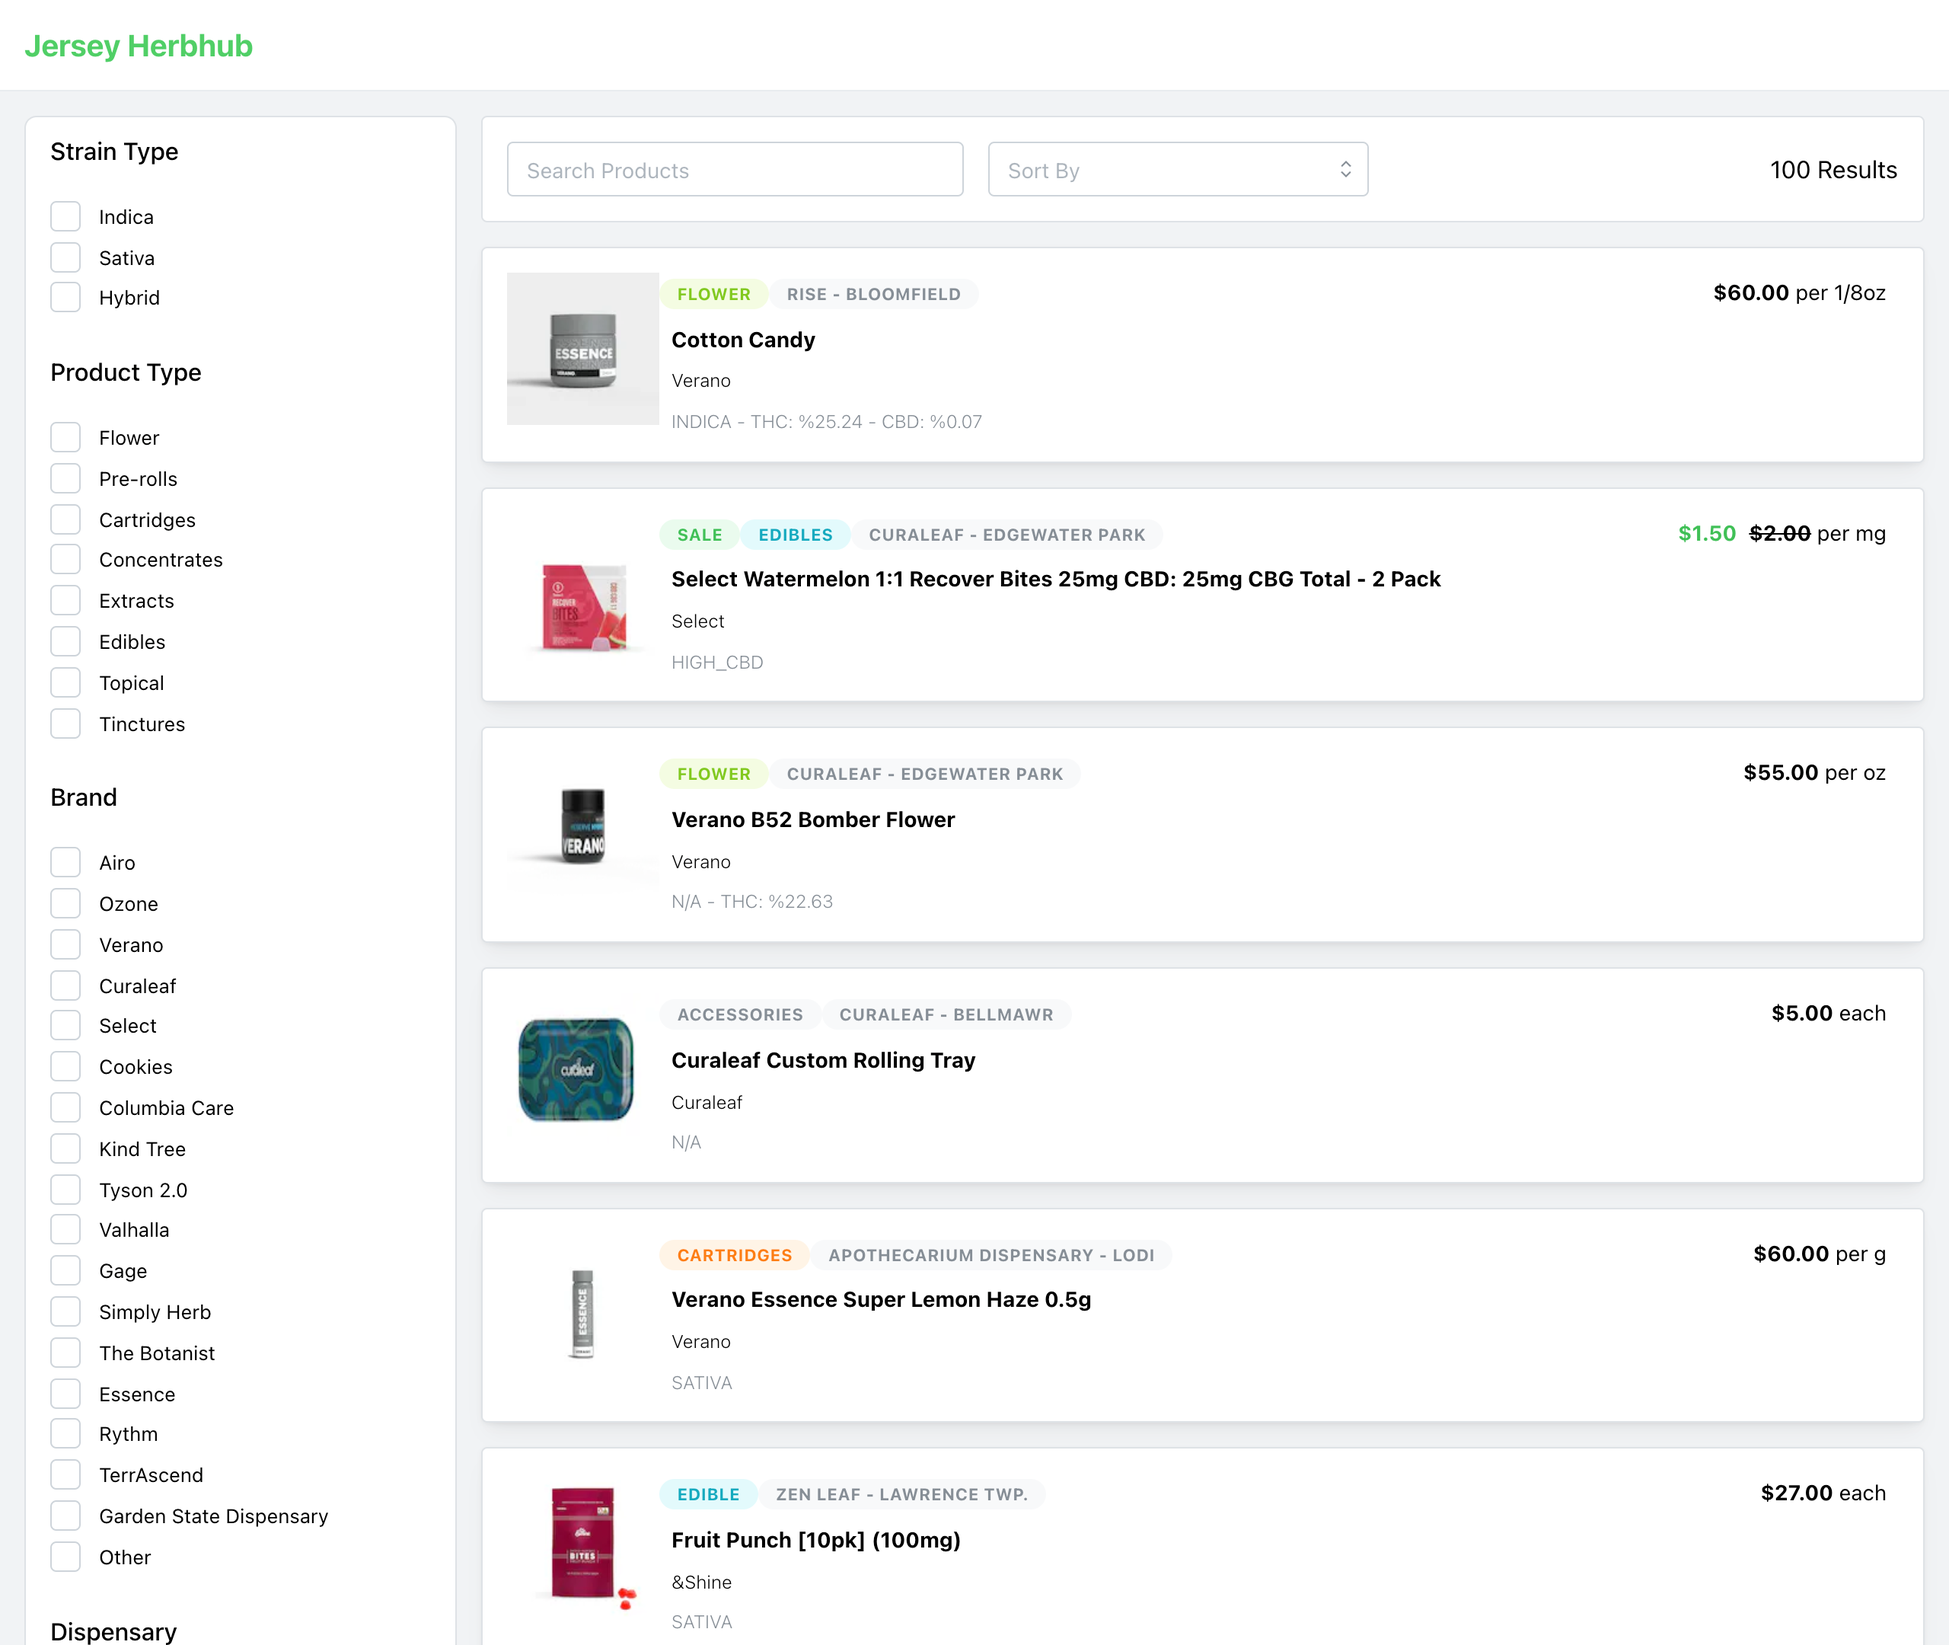
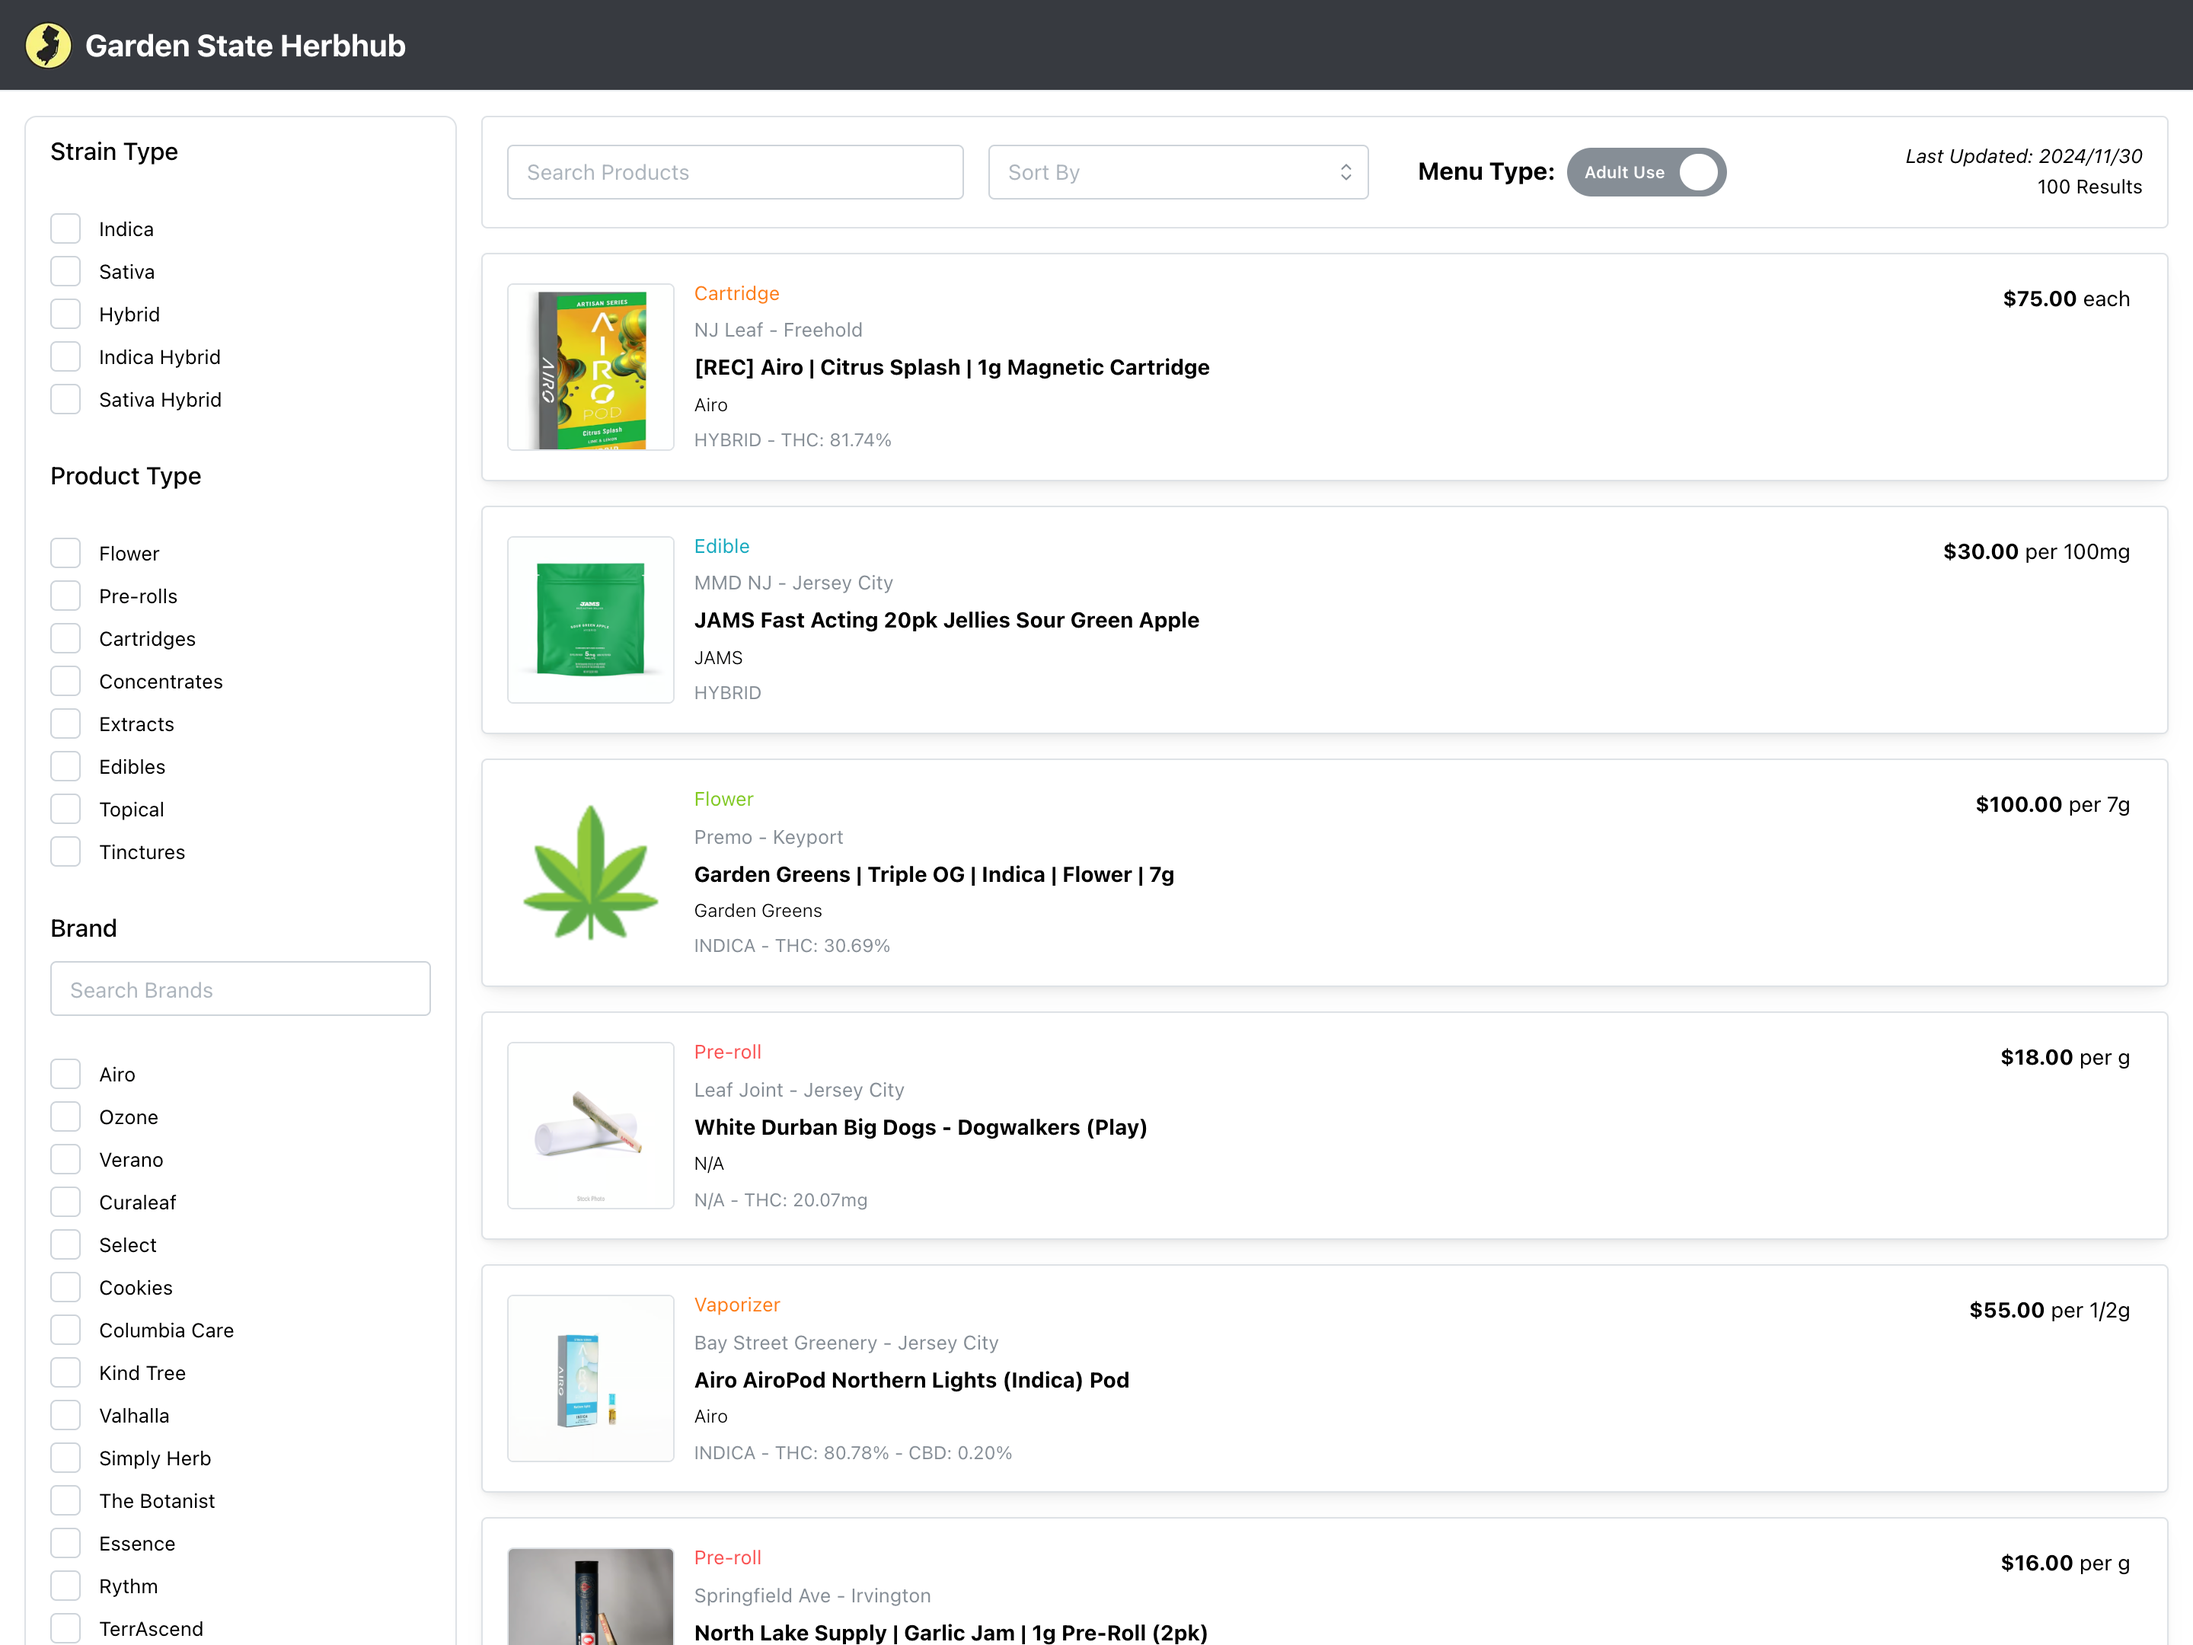
Updates

diff --git a/src/app/portfolio/page.tsx b/src/app/portfolio/page.tsx
@@ -16,7 +16,7 @@ let portfolioData = [
     website: "https://quicknote-app.vercel.app/",
     description: [
       "Mock e-commerce application for audio equipment. Built to mimic the functionality and experience of a real e-commerce site.",
-      "Built with NextJS 13, Typescript, TailwindCSS, Shadcn UI, React Query, Prisma and PostgreSQL.",
+      "Built with Next.js 13, Typescript, TailwindCSS, Shadcn UI, React Query, Prisma and PostgreSQL.",
     ],
   },
   {
@@ -27,19 +27,18 @@ let portfolioData = [
     website: "https://mentormaps.vercel.app/",
     description: [
       "Web application that allows mentors guide mentees towards their career or personal goals through the creation of roadmaps and milestones.",
-      "Built with NextJS 13, Typescript, TailwindCSS, Shadcn UI, React Query, Clerk, Prisma and PostgreSQL.",
+      "Built with Next.js 13, Typescript, TailwindCSS, Shadcn UI, React Query, Clerk, Prisma and PostgreSQL.",
     ],
   },
   {
     id: 3,
     image: image3,
-    title: "Jersey Herb Hub",
+    title: "Garden State Herbhub",
     link: "https://github.com/Jschles1/herbhub-client",
-    website: "https://herbhub-client.vercel.app/",
+    website: "https://www.gardenstateherbhub.com/",
     description: [
-      "Aggregation website for listing all marijuana dispensary products available in New Jersey dispensaries with the ability for users to sort products by dispensary location, product brand, etc.",
-      "Frontend built with NextJS, Typescript, Mantine UI, React Query and Prisma Client.",
-      "Utilizes AWS Lambda, AWS Step Functions and AWS EventBridge scheduler for running Puppeteer web crawlers to retrieve product information from each NJ dispensary website and save it to a MongoDB database on a daily basis.",
+      "Aggregation website for listing all cannabis dispensary products available in New Jersey dispensaries with the ability for users to find and sort products by dispensary location, product brand, price, etc.",
+      "Built with Next.js, Typescript, Mantine UI, React Query and Drizzle ORM, with product data saved to a PostgreSQL database.",
     ],
   },
   {
